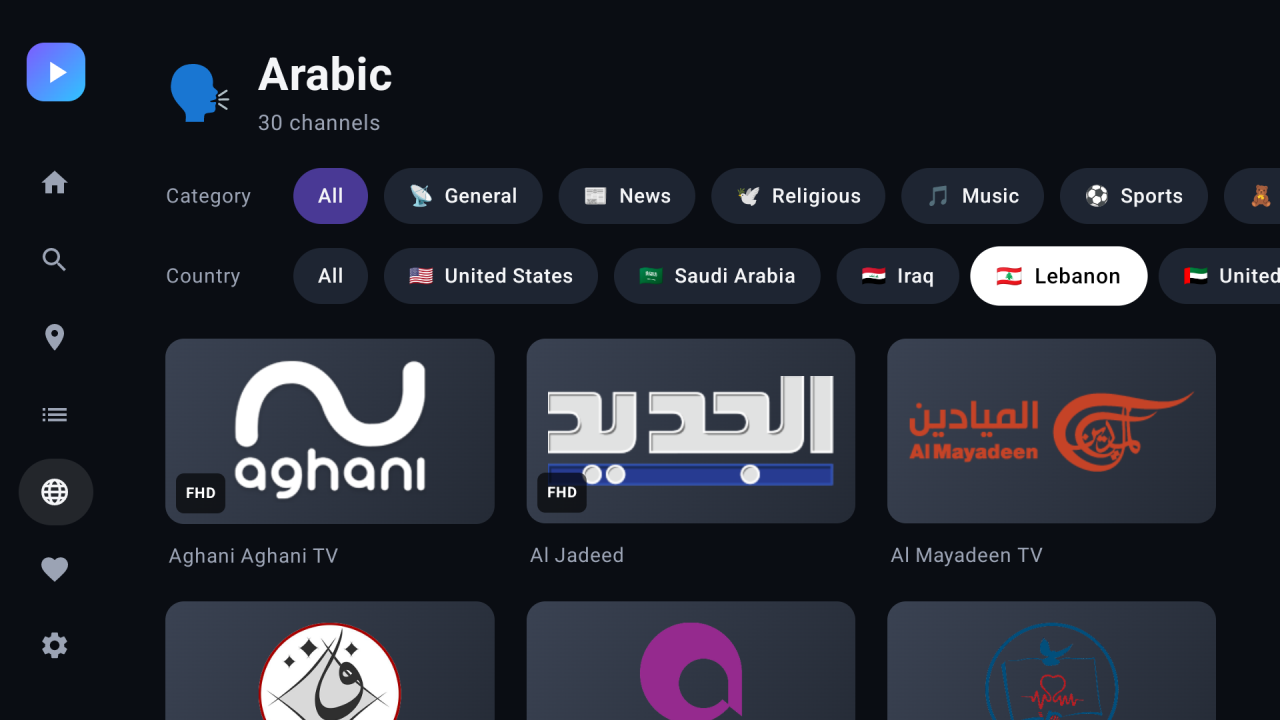
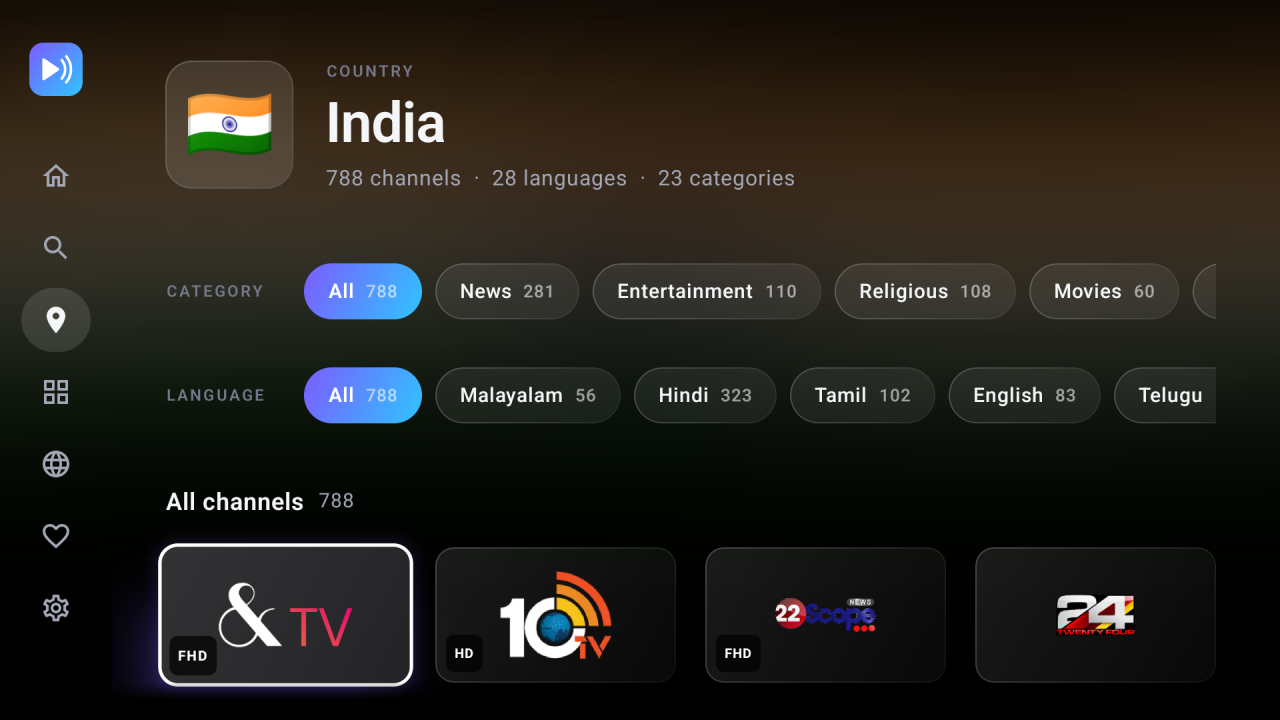
Release 1.2
- README: new screenshots of the black glass UI, A-Z rail and search
  keyboard notes, 1.2 install filenames, updated project structure.

diff --git a/README.md b/README.md
@@ -54,8 +54,8 @@ favorites, and a full-screen player you can zap through with the D-pad.
 | Home | Languages |
 |:---:|:---:|
 | <img src="docs/screenshots/home.png" alt="Home screen" width="420" /> | <img src="docs/screenshots/languages.png" alt="Languages" width="420" /> |
-| **Filters (Arabic + Lebanon)** | **Categories** |
-| <img src="docs/screenshots/filters.png" alt="Channel list with filters" width="420" /> | <img src="docs/screenshots/categories.png" alt="Categories" width="420" /> |
+| **Country page with filters** | **Categories** |
+| <img src="docs/screenshots/filters.png" alt="Country page with filter chips" width="420" /> | <img src="docs/screenshots/categories.png" alt="Categories" width="420" /> |
 | **Search** | **Player** |
 | <img src="docs/screenshots/search.png" alt="Search" width="420" /> | <img src="docs/screenshots/player.png" alt="Player overlay" width="420" /> |
 | **Settings** | |
@@ -63,12 +63,15 @@ favorites, and a full-screen player you can zap through with the D-pad.
 
 ## Features
 
-- **Home**: a header showing the highlighted channel, plus rows for *Continue watching*, *Your favorites*,
-  your country, your language, News, Sports, Movies, Music, Kids and more.
+- **Home**: a header showing the highlighted channel over a soft wash of its colours, plus rows for
+  *Continue watching*, *Your favorites*, your country, your language, News, Sports, Movies, Music, Kids and more.
 - **Browse three ways**: by **country** (with flags), **category** (30 genres) or **language** (200+).
-- **Combinable filters**: every channel list has chip rows for Category, Country and Language,
-  e.g. *Religious → India → Hindi*.
-- **Search**: an on-screen keyboard made for the remote, with results as you type.
+  Each list starts with the most popular entries, then goes A–Z with an **A–Z rail** on the right to jump through it.
+- **Combinable filters**: every channel list has chip rows for Category, Country and Language, with channel
+  counts, e.g. *Religious → India → Hindi*.
+- **Search**: a letters-only on-screen keyboard made for the remote (press **123** for digits), with results as you type.
+- **Look and feel**: a black theme with frosted-glass panels, a short logo intro on launch, and a round-friendly
+  adaptive icon for the Google TV home screen.
 - **Favorites**: hold **OK** on any channel, or while watching, to add or remove it.
 - **Home country and home language**: your channels come first on Home and in every list.
 - **Player**: HLS, DASH and progressive streams via Media3/ExoPlayer, channel zapping, a slide-in
@@ -78,7 +81,7 @@ favorites, and a full-screen player you can zap through with the D-pad.
 
 ## Installation
 
-Download the APK (for example **`AirwaveTV-1.1.apk`**) from the [latest release](../../releases/latest), then sideload it.
+Download the APK (for example **`AirwaveTV-1.2.apk`**) from the [latest release](../../releases/latest), then sideload it.
 
 ### Option A: ADB over Wi-Fi
 
@@ -91,7 +94,7 @@ Download the APK (for example **`AirwaveTV-1.1.apk`**) from the [latest release]
 
    ```bash
    adb connect <TV_IP>:5555
-   adb install -r AirwaveTV-1.1.apk
+   adb install -r AirwaveTV-1.2.apk
    ```
 
    Accept the *Allow USB debugging?* prompt on the TV the first time.
@@ -117,6 +120,7 @@ Airwave TV then appears in the **Apps** row on Google TV.
 | Where | Button | Action |
 |---|---|---|
 | Anywhere | ◀ (from content) / Back | Open the side menu |
+| Countries, categories, languages | ▶ from the right edge | Open the A–Z rail; ▲ ▼ jump, OK or ◀ go to that letter |
 | Channel tile | OK | Watch |
 | Channel tile | Hold OK | Add or remove favorite |
 | Player | ▲ / ▼ (or CH+ / CH−) | Previous / next channel |
@@ -162,14 +166,16 @@ app/src/main/java/com/airwave/tv/
 │   └── Library.kt         # Indexes by country / category / language, search, ranking
 └── ui/
     ├── AppViewModel.kt    # App state, navigation, filters, favorites
-    ├── Shell.kt           # Root layout, side menu, splash / error screens
+    ├── Shell.kt           # Root layout, side menu, error screen
+    ├── SplashScreen.kt    # Logo intro
     ├── HomeScreen.kt      # Header + channel rows
     ├── BrowseScreens.kt   # Countries, categories, languages, channel lists, favorites
+    ├── AlphabetIndex.kt   # Popular + A–Z grid with the A–Z rail
     ├── SearchScreen.kt    # On-screen keyboard + results
     ├── SettingsScreen.kt  # Home country / language, toggles, refresh
     ├── PlayerScreen.kt    # Media3 player, overlay, channel list, stream fallback
     ├── Components.kt      # Focusable cards, chips, buttons
-    └── Theme.kt, Styles.kt, Icons.kt
+    └── Theme.kt, Styles.kt  # Colours, glass surfaces, category icons and gradients
 ```
 
 ## How it works
